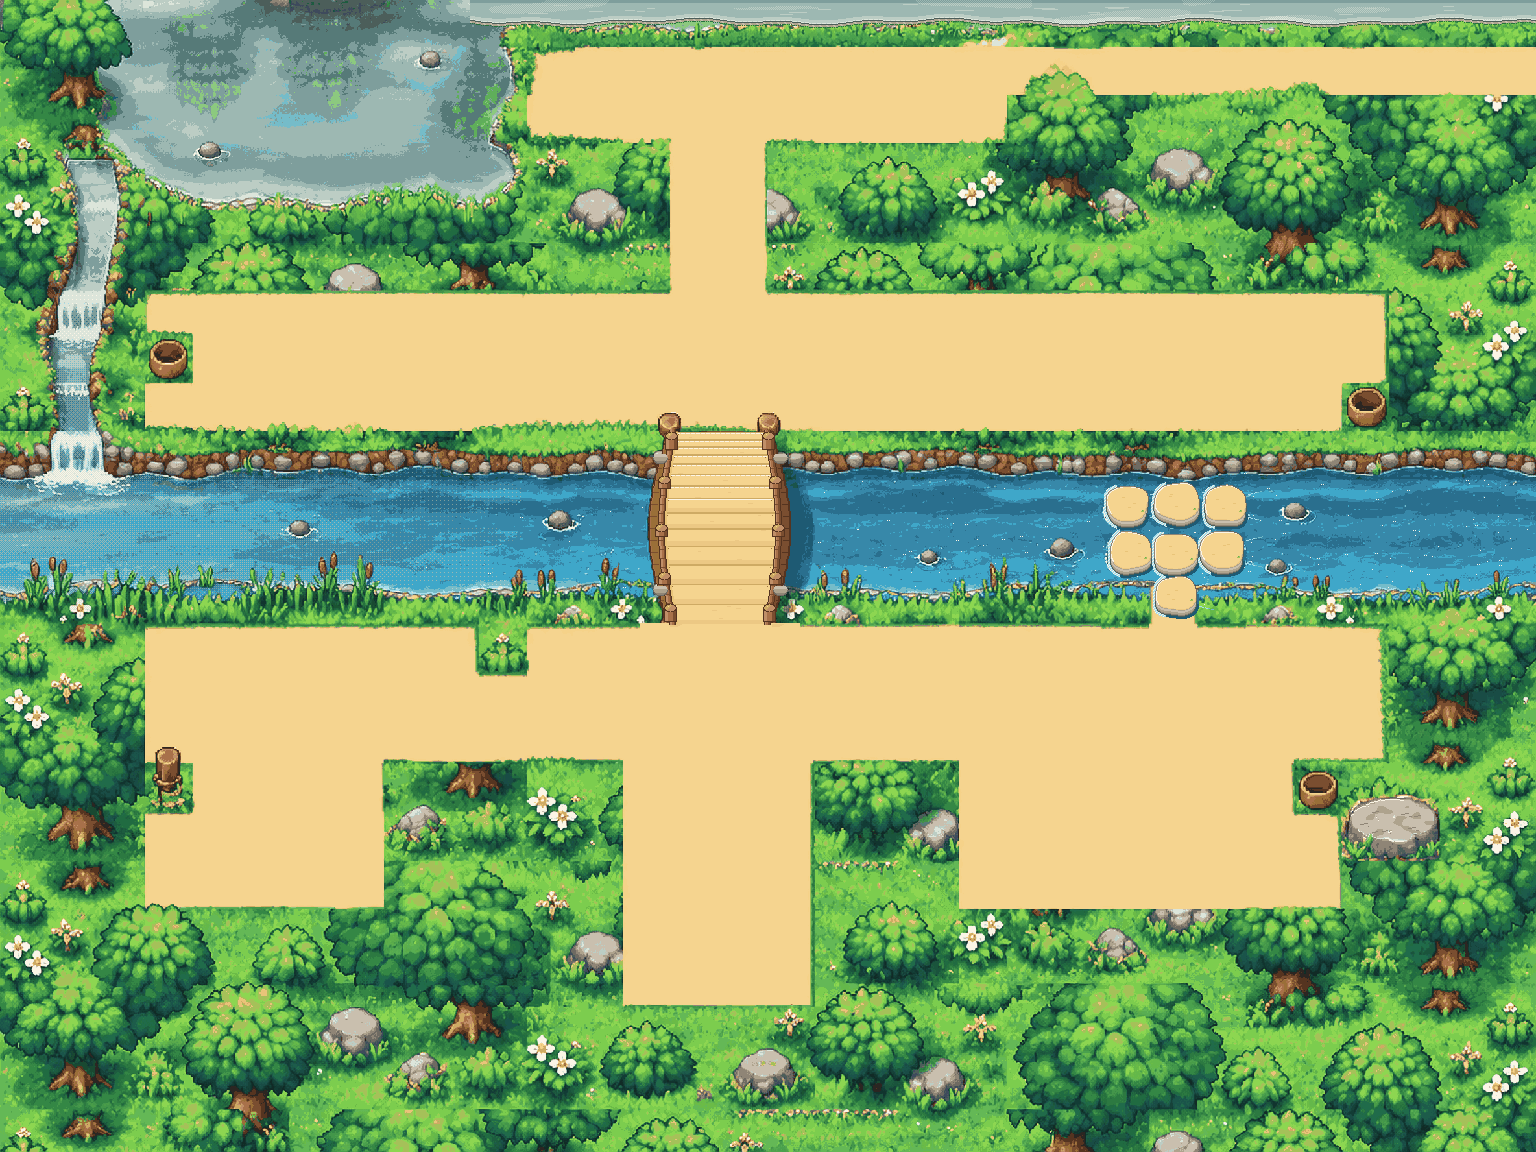
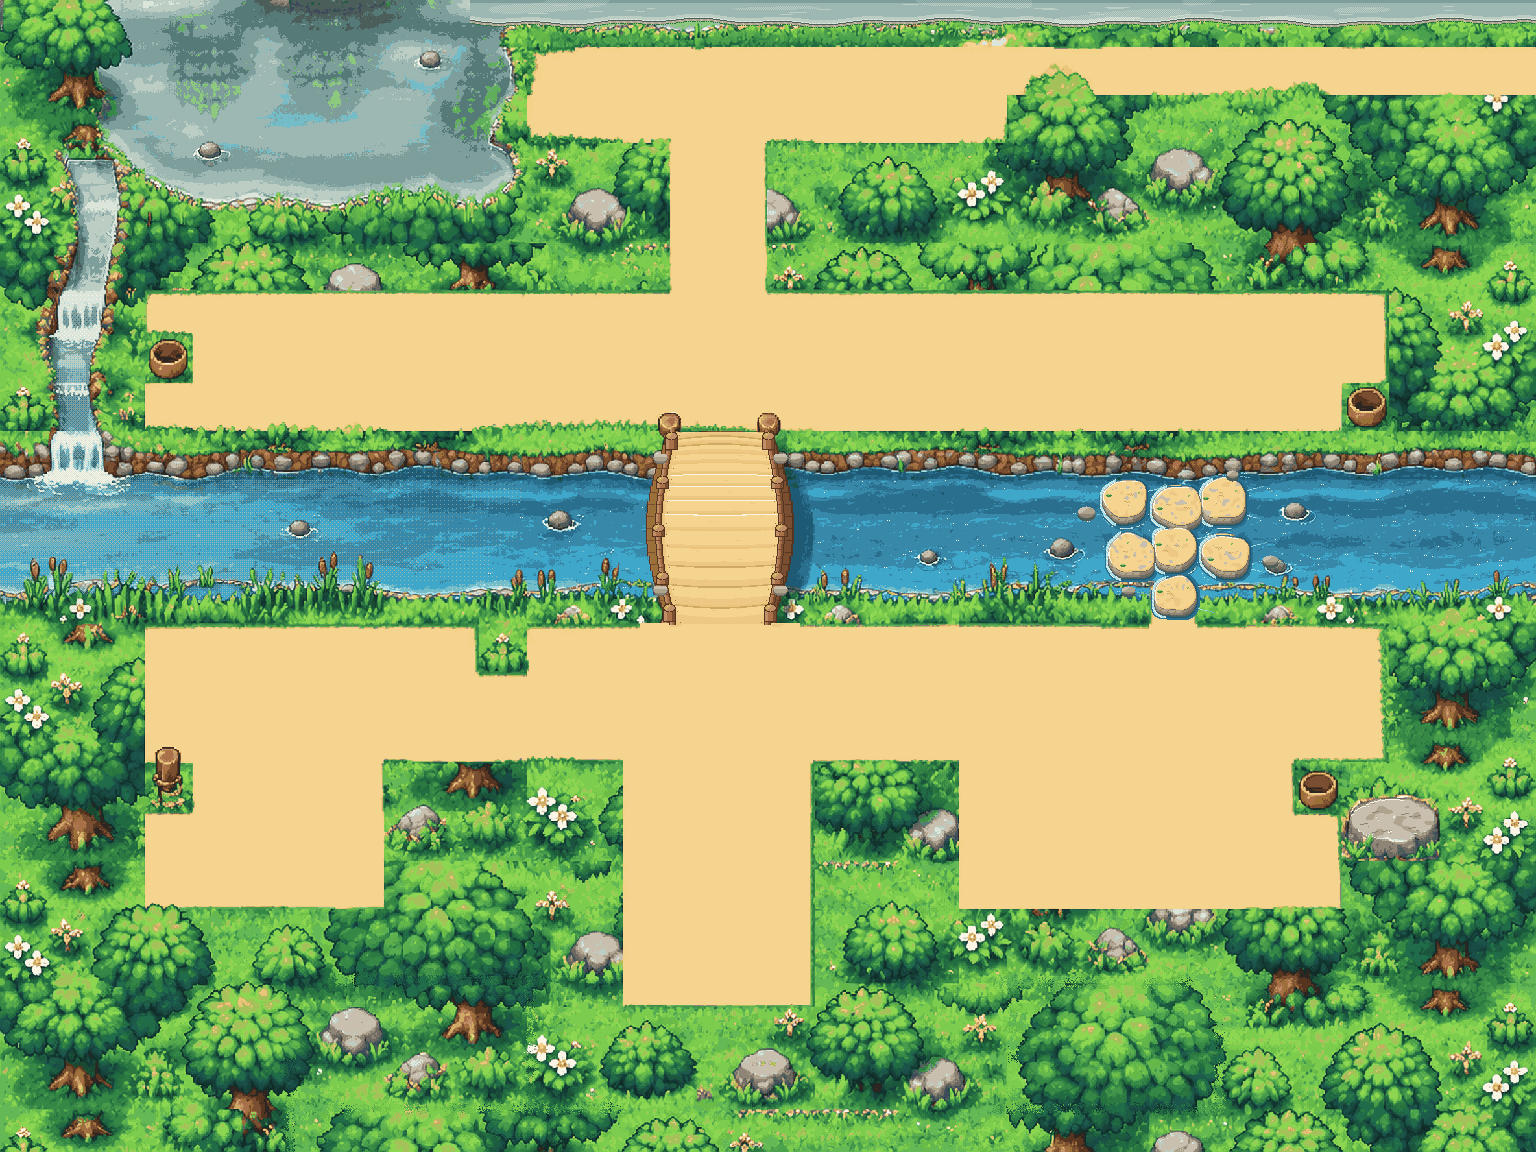
art: 3-2 natural stepping stones, curved arched bridge planks, softer forest seams
- Stepping stones: tilted, irregular stones of varied size in a zig-zag, with water and
  dark wet rims between them, warm mottles, grey lichen, cracks and moss on the tops,
  grey-brown shaded sides and foam on the upstream side. Each stone grows only until its
  tile keeps 42% path colour (42-44% now).
- Bridge: plank lines bow toward the ends, a lighter crest, wider shaded bands on both
  end slopes, rails bowed further out, rail and post shadows on the deck (deck 45-74%).
- Lower forest: rectangular seams from the redraw are broken up along their edges.
- No new credits. Same recorded pipeline, map-fit bad 0.

Claude-Session: https://claude.ai/code/session_017WoqJ7PBE5F4GzxWdiYF3d

Changed region(s): [[0.4062, 0.375, 0.5312, 0.5312], [0.6875, 0.4062, 0.8438, 0.5625]]

diff --git a/design/art/act3/map-fixes/paint_3-2.py b/design/art/act3/map-fixes/paint_3-2.py
@@ -272,7 +272,7 @@ HS = 30                    # 아치 높이(그림 px)
 NPL = 14                   # 널 수
 def bulge(y):              # 난간이 가운데에서 바깥으로 부푸는 양
     t = np.clip((y - BY0) / (BY1 - BY0), 0, 1)
-    return 11 * np.sin(np.pi * t) ** 1.1
+    return 14 * np.sin(np.pi * t) ** 1.1
 
 def plank_y(t):
     return BY0 + (BY1 - BY0) * t - HS * np.sin(np.pi * t)
@@ -298,38 +298,41 @@ def draw_bridge():
     for cx in (BX0 - 2, BX1 + 4):
         for y in range(BY1, BY1 + 3):
             img[y, cx:cx + 12 - 2 * (y - BY1)] = C['path_sh']
-    # 바닥 널
+    # 바닥 널: 널 금이 다리 끝 쪽으로 휘고(먼 쪽은 위로, 가까운 쪽은 아래로 볼록), 가운데 꼭대기는 밝고
+    # 양 끝 비탈은 그늘 띠가 넓다. 왼쪽 난간 그림자가 바닥에 진다.
     ts = np.linspace(0, 1, NPL + 1)
     ybs = plank_y(ts)
+    xm = (BX0 + BX1) / 2
     for y in range(BY0, BY1):
         b = bulge(y)
         xl, xr = int(round(BX0 + 4 - b)), int(round(BX1 - 4 + b))
-        # 이 y가 어느 널 안인가
-        k = int(np.searchsorted(ybs, y + 0.5) - 1)
-        k = min(max(k, 0), NPL - 1)
-        y0, y1 = ybs[k], ybs[k + 1]
-        pos = y - y0                    # 널 안 위치
-        hgt = y1 - y0
-        tmid = (k + 0.5) / NPL
+        hw = (xr - xl) / 2
+        t_here = float(np.interp(y, ybs, ts))
+        bow = 4.0 * (2 * t_here - 1)
         for x in range(xl, xr):
+            u = (x + 0.5 - xm) / hw
+            v = y - bow * (1 - u * u)              # 휜 널 금을 곧게 편 자리
+            k = int(np.searchsorted(ybs, v + 0.5) - 1)
+            k = min(max(k, 0), NPL - 1)
+            y0, y1 = ybs[k], ybs[k + 1]
+            pos, hgt = v - y0, y1 - y0
+            tm = (k + 0.5) / NPL
+            sh = float(np.clip((abs(tm - 0.5) - 0.18) / 0.32, 0, 1))   # 끝 비탈 그늘 정도
             c = 'path'
-            if pos < 1:                                  # 널 사이 틈
-                c = 'plank_gap'
-            elif tmid > 0.5 and pos > hgt - 5:           # 가까운 쪽(볕을 등진 비탈)은 널 아래쪽이 그늘
+            if pos < 1:
+                c = 'plank_gap' if sh > 0.3 else 'path_sh2'
+            elif pos > hgt - (1 + (0.10 + 0.42 * sh) * hgt):
+                c = 'path_sh2' if (sh > 0.55 and pos > hgt - 2) else 'path_sh'
+            elif abs(tm - 0.5) < 0.12 and pos < 2:                      # 꼭대기 널 위끝 볕
+                c = 'cream'
+            elif sh > 0.85 and (x + y) % 2 == 0 and pos > hgt * 0.45:   # 다리 맨 끝은 한 단 더 그늘
                 c = 'path_sh'
-            elif tmid <= 0.5 and pos < 2 and hgt > 4:    # 먼 쪽(볕을 받는 비탈)은 널 위끝이 밝다
-                c = 'cream' if (x + k) % 5 else 'path'
             img[y, x] = C[c]
-        # 널 끝 못
-        if 2 <= pos < 3 or (hgt < 7 and pos == hgt // 2):
-            img[y, xl + 2] = C['wood_mid']; img[y, xr - 3] = C['wood_mid']
-        # 왼쪽 난간 그림자가 바닥에
-        img[y, xl:xl + 2] = C['path_sh2']
-    # 꼭대기 널: 밝은 줄
-    k = NPL // 2
-    yc = int(round(ybs[k])) + 1
-    for x in range(int(BX0 + 4 - bulge(yc)) + 2, int(BX1 - 4 + bulge(yc)) - 1):
-        img[yc, x] = C['cream']
+        # 왼쪽 난간 그림자(난간 휜 선을 따라 3px), 널 끝 못
+        img[y, xl:xl + 1] = C['path_sh2']
+        img[y, xl + 1:xl + 3] = C['path_sh']
+        if (y - BY0) % 11 == 3:
+            img[y, xl + 4] = C['wood_mid']; img[y, xr - 3] = C['wood_mid']
     # 결 무늬
     for _ in range(26):
         y = int(rng.integers(BY0 + 4, BY1 - 4)); b = bulge(y)
@@ -389,6 +392,10 @@ def draw_bridge():
         b = bulge(y)
         post(int(round(BX0 + 4 - b)) - 4, y, tall)
         post(int(round(BX1 - 4 + b)) + 3, y, tall)
+        xl = int(round(BX0 + 4 - b))
+        if BY0 + 8 < y < BY1 - 20:                       # 왼쪽 기둥 그림자가 바닥에
+            for k in range(4):
+                img[y + 2 + k, xl + 3:xl + 8 - k] = C['path_sh']
     # 다리 머리 돌(둑에 놓인 받침돌)
     for (cx, cy) in ((BX0 - 12, BY0 + 26), (BX1 + 12, BY0 + 26), (BX0 - 12, BY1 - 34), (BX1 + 12, BY1 - 34)):
         for y in range(cy - 4, cy + 6):
@@ -399,91 +406,128 @@ def draw_bridge():
                 img[y, x] = C[c]
 
 # ---------------------------------------------------------------- 디딤돌
-STONES = [  # 칸(x,y), 가운데 비켜남, 반지름, 모양 지수, 울퉁불퉁 위상
-    ((23, 10), (-1, 2), (21, 18), 2.5, 0.3), ((24, 10), (1, 0), (23, 19), 2.3, 1.7), ((25, 10), (1, 2), (21, 18), 2.7, 2.9),
-    ((23, 11), (2, 1), (21, 19), 2.4, 4.1), ((24, 11), (-1, 2), (22, 18), 2.8, 5.3), ((25, 11), (-2, 0), (22, 19), 2.5, 0.9),
-    ((24, 12), (0, -4), (21, 17), 2.6, 2.2),
+STONES = [  # 칸(x,y), 가운데 비켜남(지그재그), 반지름(a,b), 모양 지수, 울퉁불퉁 위상, 기울기(도)
+    ((23, 10), (-3, -3), (21, 18), 2.3, 0.3, -9), ((24, 10), (2, 4), (23, 18), 2.1, 1.7, 7), ((25, 10), (-1, -3), (20, 18), 2.5, 2.9, -4),
+    ((23, 11), (3, 4), (22, 18), 2.2, 4.1, 11), ((24, 11), (-2, -3), (21, 19), 2.6, 5.3, -6), ((25, 11), (2, 4), (23, 17), 2.3, 0.9, 8),
+    ((24, 12), (-1, -4), (21, 17), 2.4, 2.2, -5),
 ]
+PEBBLES = [(1086, 512, 9, 6), (1270, 560, 8, 5), (1128, 590, 7, 4), (1232, 474, 6, 4)]   # 물에 반쯤 잠긴 회색 돌(걸을 수 없음)
 
-def draw_stones():
-    top_all = np.zeros((H, W), bool)
-    shapes = []
-    for (tx, ty), (ox, oy), (a, b), p, ph in STONES:
+def stone_shapes(scales):
+    out = []
+    for i, ((tx, ty), (ox, oy), (a, b), p, ph, rot) in enumerate(STONES):
+        a, b = a * scales[i], b * scales[i]
         cx, cy = tx * T + 24 + ox, ty * T + 21 + oy
-        x0, x1, y0, y1 = cx - a - 3, cx + a + 4, cy - b - 3, cy + b + 12
+        x0, x1, y0, y1 = int(cx - a - 4), int(cx + a + 5), int(cy - b - 4), int(cy + b + 13)
         yy2, xx2 = np.mgrid[y0:y1, x0:x1]
-        ang = np.arctan2(yy2 - cy, xx2 - cx)
-        r = (np.abs((xx2 - cx) / a) ** p + np.abs((yy2 - cy) / b) ** p) * (1 + 0.09 * np.sin(3 * ang + ph) + 0.05 * np.sin(5 * ang + 2 * ph))
+        th = np.radians(rot)
+        u = (xx2 - cx) * np.cos(th) + (yy2 - cy) * np.sin(th)
+        v = -(xx2 - cx) * np.sin(th) + (yy2 - cy) * np.cos(th)
+        ang = np.arctan2(v, u)
+        r = (np.abs(u / a) ** p + np.abs(v / b) ** p) * (1 + 0.10 * np.sin(3 * ang + ph) + 0.06 * np.sin(5 * ang + 2 * ph))
         top = r <= 1
         sidem = np.zeros_like(top)
-        for k in range(1, 7):
+        for k in range(1, 8):
             sh = np.zeros_like(top); sh[k:] = top[:-k]
             sidem |= sh
         sidem &= ~top
-        shapes.append((x0, y0, top, sidem, cx, cy, a, b, p, r))
-        top_all[y0:y1, x0:x1] |= top | sidem
-    # 물 쪽 거품(왼쪽 = 상류) · 돌 둘레 젖은 그늘 · 아래(하류 오른쪽) 물살 자국
-    for x0, y0, top, sidem, cx, cy, a, b, p, r in shapes:
-        allm = top | sidem
-        hh, ww = allm.shape
-        for y in range(hh):
-            for x in range(ww):
-                if allm[y, x]: continue
+        out.append(dict(x0=x0, y0=y0, top=top, side=sidem, cx=cx, cy=cy, a=a, b=b, r=r, seed=i))
+    return out
+
+def paint_stones(shapes):
+    allbig = np.zeros((H, W), bool)
+    for s_ in shapes:
+        hh, ww = s_['top'].shape
+        allbig[s_['y0']:s_['y0'] + hh, s_['x0']:s_['x0'] + ww] |= s_['top'] | s_['side']
+    # 물: 돌 사이 물은 한 단 깊게(돌 사이가 또렷이), 위쪽(상류) 왼편 물거품, 아래·오른편 젖은 어둠
+    for s_ in shapes:
+        x0, y0, cx, cy, a, b = s_['x0'], s_['y0'], s_['cx'], s_['cy'], s_['a'], s_['b']
+        m = s_['top'] | s_['side']
+        hh, ww = m.shape
+        for y in range(-3, hh + 3):
+            for x in range(-4, ww + 4):
                 X0, Y0 = x0 + x, y0 + y
-                if top_all[Y0, X0]: continue
-                near = allm[max(0, y - 2):y + 3, max(0, x - 2):x + 3].any()
-                if not near: continue
-                if X0 < cx - a * 0.5:
-                    img[Y0, X0] = C['w5' if (X0 + Y0) % 3 else 'cream']
-                elif Y0 > cy:
-                    img[Y0, X0] = C['w0' if Y0 > cy + b * 0.6 else 'w1']
-        # 물살 자국: 돌 오른쪽으로 벌어지는 두 줄
-        for sgn, y_start in ((-1, cy - b // 2), (1, cy + b // 2 + 5)):
-            xx, yv = cx + a + 2, float(y_start)
+                if allbig[Y0, X0]: continue
+                d = min(max(abs(dy), abs(dx)) for dy in range(-3, 4) for dx in range(-3, 4)
+                        if 0 <= y + dy < hh and 0 <= x + dx < ww and m[y + dy, x + dx]) if m[max(0, y - 3):y + 4, max(0, x - 3):x + 4].any() else 9
+                if d > 3: continue
+                if X0 < cx - a * 0.45 and d <= 2:
+                    img[Y0, X0] = C['cream' if (X0 * 3 + Y0) % 4 == 0 else 'w5']
+                elif Y0 > cy - b * 0.2 or X0 > cx + a * 0.5:
+                    img[Y0, X0] = C['w0' if d <= 1 else 'w1']
+                elif d <= 1:
+                    img[Y0, X0] = C['w1']
+        for sgn, ys_ in ((-1, cy - b * 0.4), (1, cy + b * 0.6 + 5)):     # 물살 자국
+            xx = int(cx + a + 2)
             for k in range(int(rng.integers(12, 20))):
-                X0, Y0 = xx + k, int(round(yv + sgn * k * 0.22))
-                if 0 <= X0 < W and not top_all[Y0, X0] and (k % 6) != 5:
+                X0, Y0 = xx + k, int(round(ys_ + sgn * k * 0.25))
+                if 0 <= X0 < W and not allbig[Y0, X0] and (k % 6) != 5:
                     img[Y0, X0] = C['w5' if k < 9 else 'w4']
-            put(xx + 5, y_start - 2 * sgn, 'cream')
-    for x0, y0, top, sidem, cx, cy, a, b, p, r in shapes:
+    for s_ in shapes:
+        x0, y0, top, side, cx, cy, a, b, r = (s_[k] for k in ('x0', 'y0', 'top', 'side', 'cx', 'cy', 'a', 'b', 'r'))
         hh, ww = top.shape
+        lr = np.random.default_rng(100 + s_['seed'])
+        nz = np.array(Image.fromarray(lr.uniform(-1, 1, (hh // 5 + 3, ww // 5 + 3)).astype(np.float32))
+                      .resize(((ww // 5 + 3) * 5, (hh // 5 + 3) * 5), Image.BICUBIC))[:hh, :ww]
         for y in range(hh):
             for x in range(ww):
                 X0, Y0 = x0 + x, y0 + y
-                if sidem[y, x]:
+                if side[y, x]:
                     k = 0
                     while y - k - 1 >= 0 and not top[y - k - 1, x]: k += 1
-                    below = y + 1 >= hh or not (top[y + 1, x] or sidem[y + 1, x])
-                    edge_lr = (x == 0 or not (top[y, x - 1] or sidem[y, x - 1])) or (x == ww - 1 or not (top[y, x + 1] or sidem[y, x + 1]))
-                    if below or edge_lr: c = 'st_wet'
-                    elif k <= 1: c = 'st_hi'
-                    elif k <= 3: c = 'st'
-                    else: c = 'st_mid'
+                    below = y + 1 >= hh or not (top[y + 1, x] or side[y + 1, x])
+                    edge = (x == 0 or not (top[y, x - 1] or side[y, x - 1])) or (x == ww - 1 or not (top[y, x + 1] or side[y, x + 1]))
+                    dark = X0 > cx + a * 0.35                   # 볕을 등진 오른쪽 옆면은 한 단 어둡게
+                    if below: c = 'st_wet'
+                    elif edge: c = 'st_dk'
+                    elif k == 0: c = 'st' if not dark else 'st_mid'
+                    elif k <= 2: c = ('st_mid' if dark else 'st') if (X0 + k) % 7 else 'wood_mid'
+                    elif k <= 4: c = 'st_dk' if dark else 'st_mid'
+                    else: c = 'st_wet' if (X0 + Y0) % 3 == 0 else 'st_dk'
                     img[Y0, X0] = C[c]
                 elif top[y, x]:
                     rr = r[y, x]
-                    up_left = (X0 - cx) / a + (Y0 - cy) / b < -0.2
-                    if rr > 0.9 and (Y0 < cy - b * 0.55 or up_left): c = 'st_hi'     # 윗가장자리 테
-                    elif rr > 0.9: c = 'st'
-                    elif rr > 0.8 and up_left: c = 'cream'
-                    elif rr > 0.8 and not up_left and Y0 > cy: c = 'path_sh'
+                    lit = (X0 - cx) / a + (Y0 - cy) / b
+                    if rr > 0.93: c = 'st' if lit < 0.1 else 'st_dk'
+                    elif rr > 0.83 and lit < -0.35: c = 'cream' if nz[y, x] > -0.5 else 'st_hi'
+                    elif rr > 0.80 and lit > 0.45: c = 'path_sh2'
+                    elif nz[y, x] > 0.62: c = 'path_sh'                      # 따뜻한 얼룩
+                    elif nz[y, x] < -0.68: c = 'st_hi'                       # 회색 이끼(지의류) 얼룩
                     else: c = 'path'
                     img[Y0, X0] = C[c]
-        # 윗면 윤곽(아래쪽은 옆면이 받는다): 볕 쪽은 밝은 돌색, 그늘 쪽은 어두운 돌색
-        allm = top | sidem
-        for y in range(hh):
-            for x in range(ww):
-                if not top[y, x]: continue
-                nb = [(y - 1, x), (y, x - 1), (y, x + 1)]
-                if any(not (0 <= j < hh and 0 <= i < ww) or not allm[j, i] for j, i in nb):
-                    img[y0 + y, x0 + x] = C['st_dk' if (x0 + x) > cx + a * 0.3 else 'st_mid']
-        # 이끼 조금, 잔금
-        for _ in range(3):
-            X0 = int(cx + rng.integers(-a // 2, a // 2)); Y0 = int(cy + rng.integers(-b // 3, b // 2))
-            img[Y0, X0:X0 + 3] = C['path_sh2']
-        mx, my = cx + a - 6, cy + b // 2 - 2
-        for d in ((0, 0), (1, 0), (0, 1), (-1, 1), (1, 1)):
-            put(mx + d[0], my + d[1], 'g_reed' if d != (0, 0) else 'g')
+        for _ in range(2):                                                 # 잔금
+            X0 = int(cx + lr.integers(-int(a * 0.5), int(a * 0.3))); Y0 = int(cy + lr.integers(-int(b * 0.4), int(b * 0.3)))
+            for k in range(int(lr.integers(4, 8))):
+                put(X0 + k, Y0 + (k // 3) * (1 if k % 2 else 0), 'plank_gap')
+        for _ in range(4):                                                 # 작은 구멍
+            put(cx + lr.integers(-int(a * 0.6), int(a * 0.6)), cy + lr.integers(-int(b * 0.5), int(b * 0.5)), 'st')
+        ang = lr.uniform(np.pi * 0.55, np.pi * 1.1)                        # 이끼: 아래 왼쪽 가장자리
+        mx, my = cx + 0.78 * a * np.cos(ang), cy + 0.72 * b * np.sin(ang)
+        for d in ((0, 0), (1, 0), (-1, 0), (0, -1), (1, -1), (2, 0), (-1, 1), (0, 1), (2, 1), (3, 0), (-2, 0), (1, 1)):
+            put(mx + d[0], my + d[1], ('g' if d == (0, 0) else ('g_reed' if d[1] < 0 else 'g_mid')))
+        put(mx + 2, my - 1, 'g_hi'); put(mx - 1, my - 1, 'g_hi')
+        mx2, my2 = cx + 0.7 * a * np.cos(ang + 2.4), cy + 0.6 * b * np.sin(ang + 2.4)   # 맞은편에 이끼 점 몇
+        for d in ((0, 0), (1, 0), (0, 1)):
+            put(mx2 + d[0], my2 + d[1], 'g_reed' if d == (0, 0) else 'g')
+    for cx, cy, a, b in PEBBLES:
+        rock(cx, cy, a, b)
+
+def draw_stones():
+    """디딤돌을 그리고, 칸마다 길 색이 0.43 아래면 그 돌만 조금씩 키워 다시 그린다."""
+    base = img.copy()
+    scales = [1.0] * len(STONES)
+    for it in range(10):
+        img[:] = base
+        sh = stone_shapes(scales)
+        paint_stones(sh)
+        bad = False
+        for i, ((tx, ty), *_r) in enumerate(STONES):
+            share = (img[ty * T:(ty + 1) * T, tx * T:(tx + 1) * T] == C['path']).all(-1).mean()
+            if share < 0.42:
+                scales[i] *= 1.04; bad = True
+        if not bad:
+            break
+    print('stones', [round(v, 2) for v in scales])
 
 # ---------------------------------------------------------------- 꾸밈: 갈대, 물속 회색 바위, 덤불
 def reeds(cx, base_y, n, spread=7, hmin=9, hmax=20, cat=True):
@@ -601,6 +645,30 @@ def rockdetail():
                 sub[yy_, xx_] = C['st_mid']
     img[y0:y1, x0:x1] = sub
 
+SEAMS = [  # 다시 그린 그림에 남은 네모 이음매(방향, 이음매 좌표, 시작, 끝) — 아래 숲, 모두 막힌 칸
+    ('h', 1108, 285, 625), ('v', 530, 975, 1110), ('v', 290, 1058, 1152), ('h', 980, 328, 555),
+    ('h', 983, 995, 1224), ('h', 1108, 990, 1224), ('v', 1013, 980, 1110), ('v', 1219, 980, 1112),
+]
+def seams():
+    """이음매 양쪽 6px 띠에서 점을 이음매 건너편 점과 무작위로 바꿔(가까울수록 자주) 색 덩어리 경계를 풀어 준다."""
+    src_ = img.copy()
+    lr = np.random.default_rng(77)
+    for kind, c0, a0, a1 in SEAMS:
+        for t_ in range(a0, a1):
+            for d in range(-6, 7):
+                if lr.random() > 0.55 * (1 - abs(d) / 7):
+                    continue
+                j = int(lr.integers(-2, 3))
+                m = -d + (1 if d >= 0 else -1) * int(lr.integers(0, 3))
+                if kind == 'v':
+                    y, x, ys_, xs_ = t_, c0 + d, t_ + j, c0 + m
+                else:
+                    y, x, ys_, xs_ = c0 + d, t_, c0 + m, t_ + j
+                if 0 <= y < H and 0 <= x < W and 0 <= ys_ < H and 0 <= xs_ < W:
+                    img[y, x] = src_[ys_, xs_]
+
+if 'seams' in only:
+    seams()
 if 'rock' in only:
     rockdetail()
 if 'mistify' in only:
